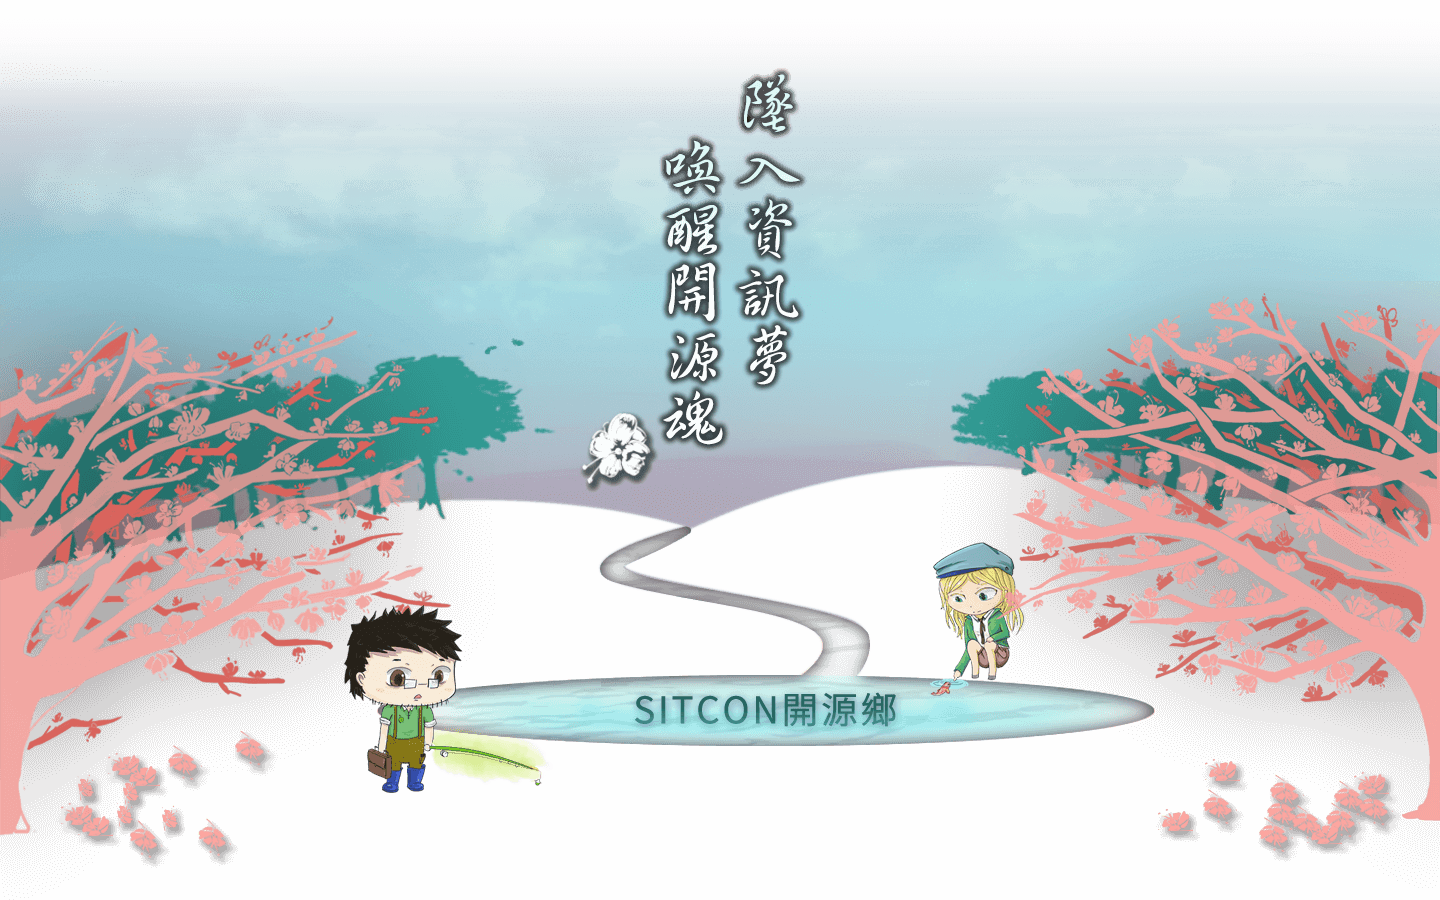
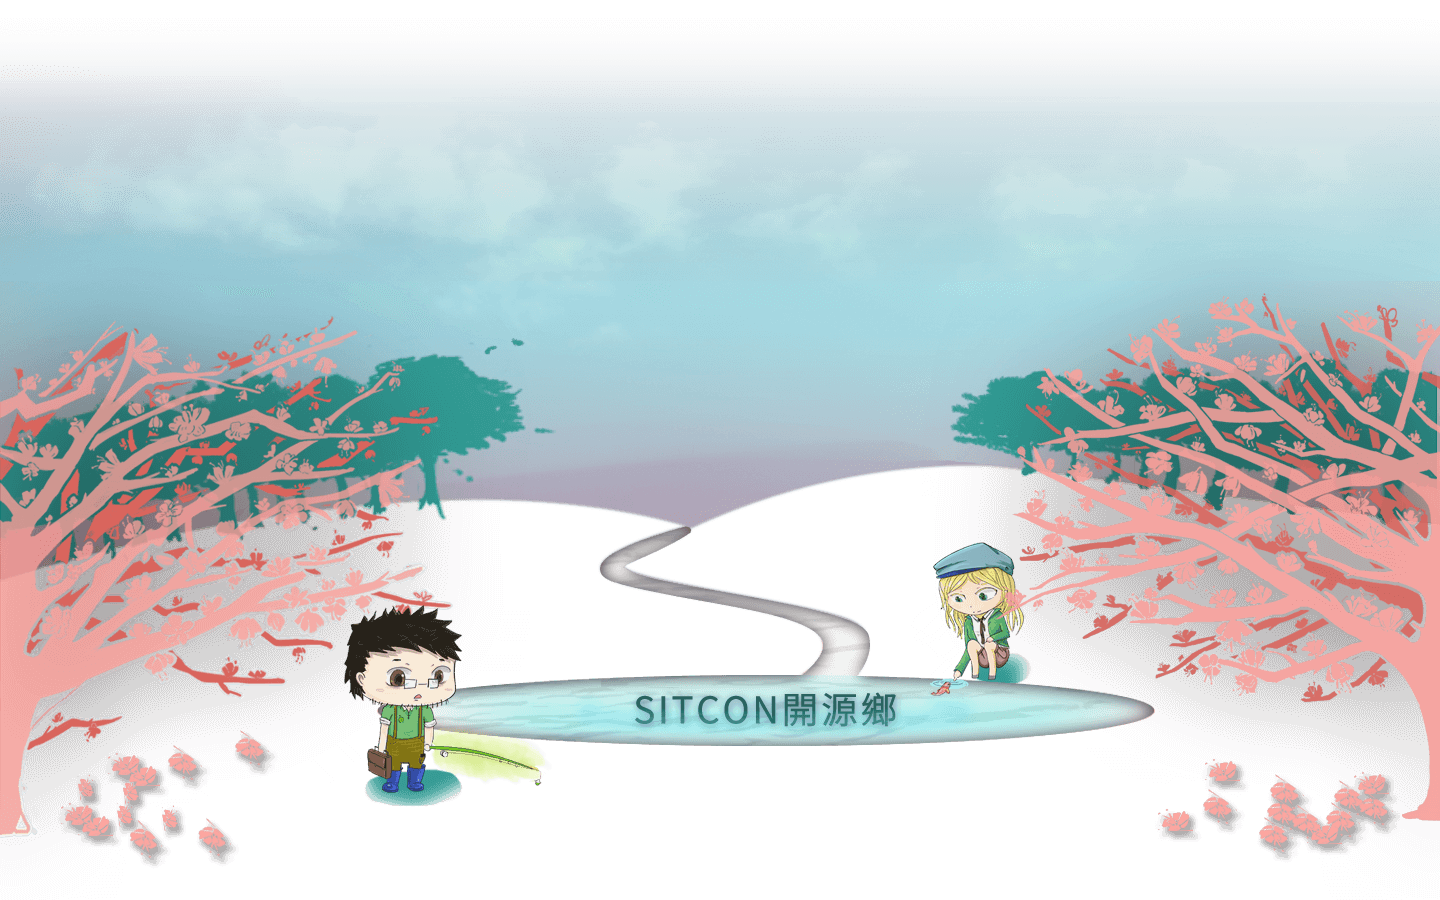
bugfix
* fix the position and size of title image

Changed region(s): [[0.4062, 0.0622, 0.5625, 0.56], [0.25, 0.84, 0.3438, 0.9022], [0.6875, 0.7156, 0.7188, 0.7778]]

diff --git a/src/styles/page/_coverPage.scss b/src/styles/page/_coverPage.scss
@@ -1,24 +1,19 @@
-
 $coverPagePropotion: 1440/900;
-
-#coverPage{
+#coverPage {
 	position: relative;
 	width: 100%;
 	height: 100%;
 	background-color: $darkBlack;
 }
 
-.coverPage{
-
+.coverPage {
 	position: relative;
 	width: 100%;
 	height: 100%;
 	overflow: hidden;
-	// top: -60px;
 	background: white;
 	background: linear-gradient(180deg, #e1d8d9, #bab1a3);
-
-	.bg{
+	.bg {
 		@include middleCenter();
 		display: block;
 		width: 100%;
@@ -28,100 +23,45 @@ $coverPagePropotion: 1440/900;
 		top: 0;
 		height: 100%;
 	}
-
-	.front{
-		img{
+	.top {
+		width: 80%;
+	}
+	.front {
+		img {
 			@include middleCenter();
 			width: 80%;
 			height: auto;
 		}
-		.mid {
-			width: 100%;
-		}
-		.btn {
-			width: 100%;
-		}
 	}
-
-	.role{
+	.role {
 		position: absolute;
 		top: 0;
 		width: 100%;
 		height: 100%;
-		.boy{
-			@include middleCenter();
-			width: 100%;
-			// position: absolute;
-			// width: 17%;
-			// top: 50%;
-			// left: 50%;
-			// transform-style: preserve-3d;
-			// transform: translate(-160%, -55%);
-		}
-		.girl{
-			@include middleCenter();
-			width: 100%;
-			// position: absolute;
-			// width: 22%;
-			// top: 50%;
-			// left: 50%;
-			// transform-style: preserve-3d;
-			// transform: translate(40%, -51%);
-		}
 	}
-
-	@media screen and (max-aspect-ratio: 1440/840){
-		.front{
-			img{
+	@media screen and (max-aspect-ratio: 1440/840) {
+		.front {
+			img {
 				width: 100%;
 			}
 		}
-		// .role{
-		// 	.boy{ width: 17% * 100 / 80; }
-		// 	.girl{ width: 22% * 100 / 80; }
-		// }
 	}
-		
-	@media screen and (min-aspect-ratio: 1440/840) and (max-height: 800px){
+	@media screen and (min-aspect-ratio: 1440/840) and (max-height: 800px) {
 		top: 0px;
-
-		.front{
-			img{
+		.front {
+			img {
 				height: 100%;
 				width: auto;
 			}
 		}
-		// .role{
-		// 	.boy{
-		// 		height: 61%;
-		// 		width: auto;
-		// 	}
-		// 	.girl{
-		// 		height: 57%;
-		// 		width: auto;
-		// 	}
-		// }
 	}
-		
-	@media screen and (min-aspect-ratio: 1440/840) and (max-height: 600px){
+	@media screen and (min-aspect-ratio: 1440/840) and (max-height: 600px) {
 		top: -30px;
-
-		.front{
-			img{
+		.front {
+			img {
 				height: 70%;
 				width: auto;
 			}
 		}
-		// .role{
-		// 	.boy{
-		// 		height: 43%;
-		// 		width: auto;
-		// 	}
-		// 	.girl{
-		// 		height: 40%;
-		// 		width: auto;
-		// 	}
-		// }
 	}
-
 }

diff --git a/src/scripts/component/coverPage.jsx b/src/scripts/component/coverPage.jsx
@@ -9,6 +9,9 @@ var CoverPage = React.createClass({
 				<img className="bg" src="img/background.png"/>
 				<img className="grass" src="img/grass.png"/>
 				<img className="bg" src="img/front.png"/>
+				<div className="front">
+					<img className="bg top" src="img/top.png"/>
+				</div>
 			</div>
 		);
 	}
